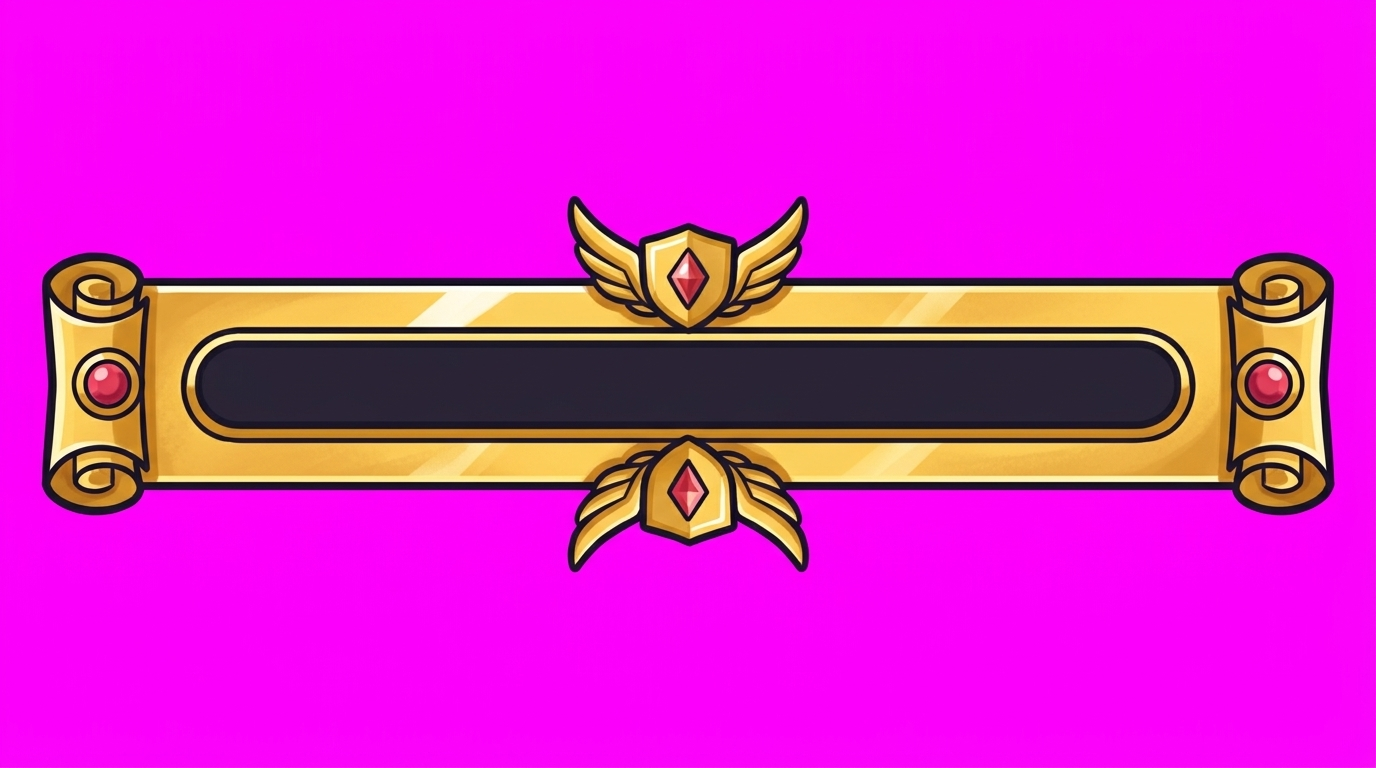
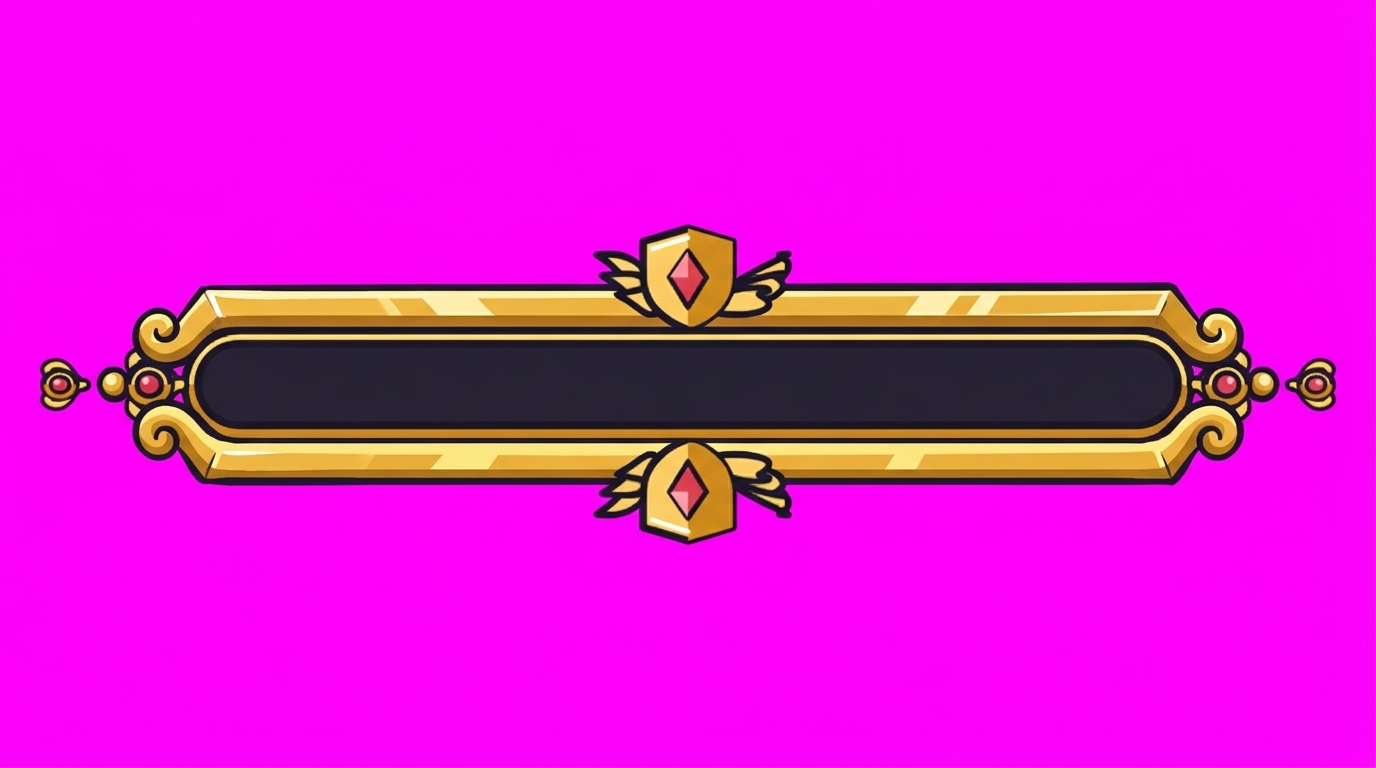
Paint the Oracle's Hourglass and repaint the champion bar frame

Changed region(s): [[0.0312, 0.25, 0.9688, 0.75]]

diff --git a/src/components/art/ItemIcon.vue b/src/components/art/ItemIcon.vue
@@ -24,8 +24,7 @@ const tint = computed(() => TIER_COLOR[item.value?.tier ?? 1] ?? '#c9d2e3')
 /** An Infernal twin with a painting of its own is shown as painted; one without wears its original's, tinted. */
 const own = computed(() => !props.drawn && !!ITEM_ART.get(props.id))
 /** Pieces that wear another's painting until their own is painted (the Oracle's hourglass: the Timekeeper's). */
-const TWIN: Readonly<Record<string, string>> = { oraclesHourglass: 'timekeepersHourglass' }
-const src = computed(() => (props.drawn ? '' : ITEM_ART.get(props.id) ?? (base.value ? ITEM_ART.get(base.value) : TWIN[props.id] ? ITEM_ART.get(TWIN[props.id]!) : '') ?? ''))
+const src = computed(() => (props.drawn ? '' : ITEM_ART.get(props.id) ?? (base.value ? ITEM_ART.get(base.value) : '') ?? ''))
 </script>
 
 <style scoped lang="sass">

diff --git a/painting-todo.md b/painting-todo.md
@@ -3,20 +3,17 @@
 Every icon and picture the game still draws instead of showing a painting, kept by hand from `pnpm art:status` and
 `art-sheets/PAINT-STATUS.md` (regenerated by `pnpm art:prompts`). Last checked 2026-11-19 (evening).
 
-**Items: 729 of 730 painted** (210 found, 432 smithed, 6 colosseum, 18 afterplay, and the 63 Infernal twins, each with a painting of
+**Items: 730 of 730 painted** (210 found, 432 smithed, 6 colosseum, 18 afterplay, and the 63 Infernal twins, each with a painting of
 its own now). **Skills 288/288, portraits 94/94, icons 111/111, logo 3/3, textures 1/1** are complete.
 
 ## Not painted yet
 
-| What | Where it shows | How to paint it |
-| --- | --- | --- |
-| `oraclesHourglass`: the Oracle's hourglass (legendary, #232) | the reward of robbing the Oracle (`sheet-items-oracle`) | Art Desk, stem `sheet-items-oracle`; until then it wears the Timekeeper's hourglass painting |
+Nothing: every item, skill, portrait, icon and picture the game draws has a painting.
 
 ## Painted, but to be looked at
 
 | What | Why |
 | --- | --- |
-| `sheet-ui-bar-frame-champion` | REPAINT: its reference was re-cut after it was painted (Gemini's image limit was spent when it was tried) |
 | `bg-ui-terrain-piece-ne-nw`, `bg-ui-terrain-piece-ne-se` | painted, no slicer receipt: run `pnpm art:slice --dry` and read what it would write |
 | `ringOfTheVampyreInfernal`, `bannerOfTheHostInfernal` | the slicer warned that paint touches the edge of the panel: look at the two icons, repaint their sheet (`sheet-items-infernal-N`) if one is cut |
 | every Infernal sheet | Gemini returned JPEGs, so a faint pink fringe is possible at the edges (`pnpm art:slice` warns about it); ask for PNG if it shows |
@@ -30,4 +27,4 @@ its own now). **Skills 288/288, portraits 94/94, icons 111/111, logo 3/3, textur
 
 ## Done today
 
-`wanted` (the Goblin King wanted poster) and `sunford-ruined`, `oakhaven-ruined`, `ironhold-ruined` (the burned towns) are painted and in the game.
+`oraclesHourglass` (the Oracle's hourglass, #232) and the champion bar frame repaint (`sheet-ui-bar-frame-champion`) are painted and in the game. `wanted` (the Goblin King wanted poster) and `sunford-ruined`, `oakhaven-ruined`, `ironhold-ruined` (the burned towns) are painted and in the game.
